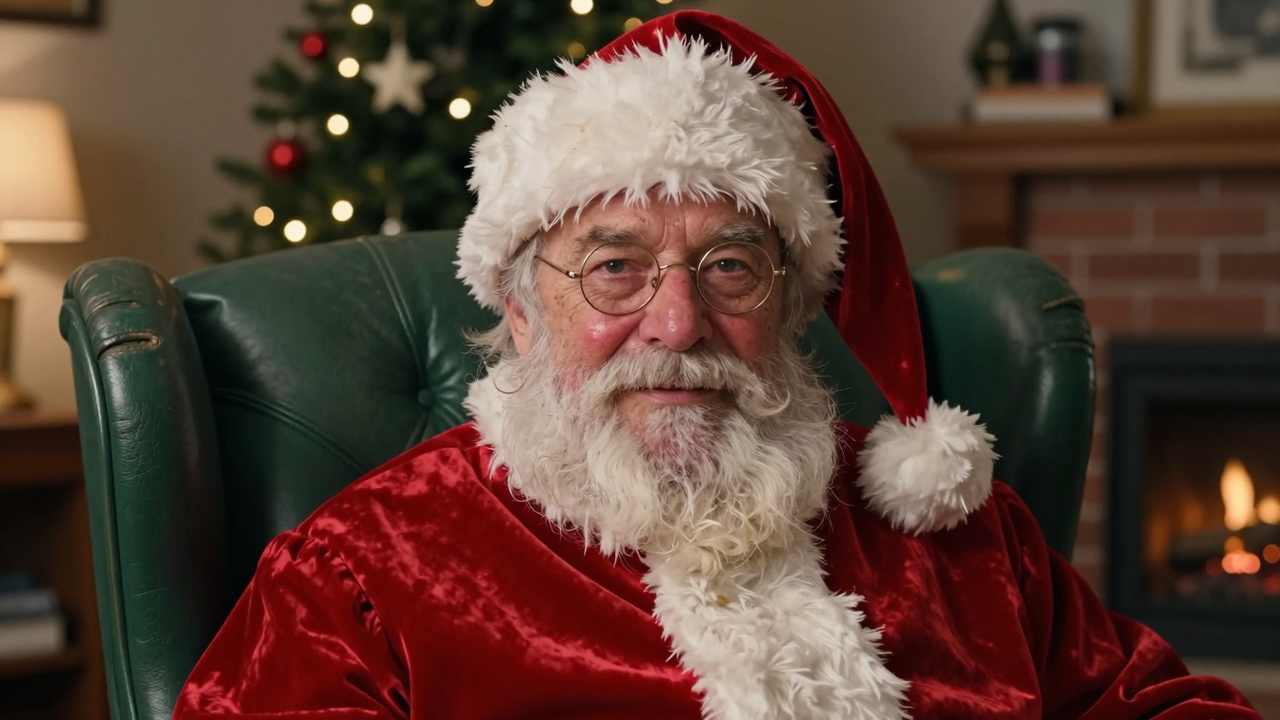
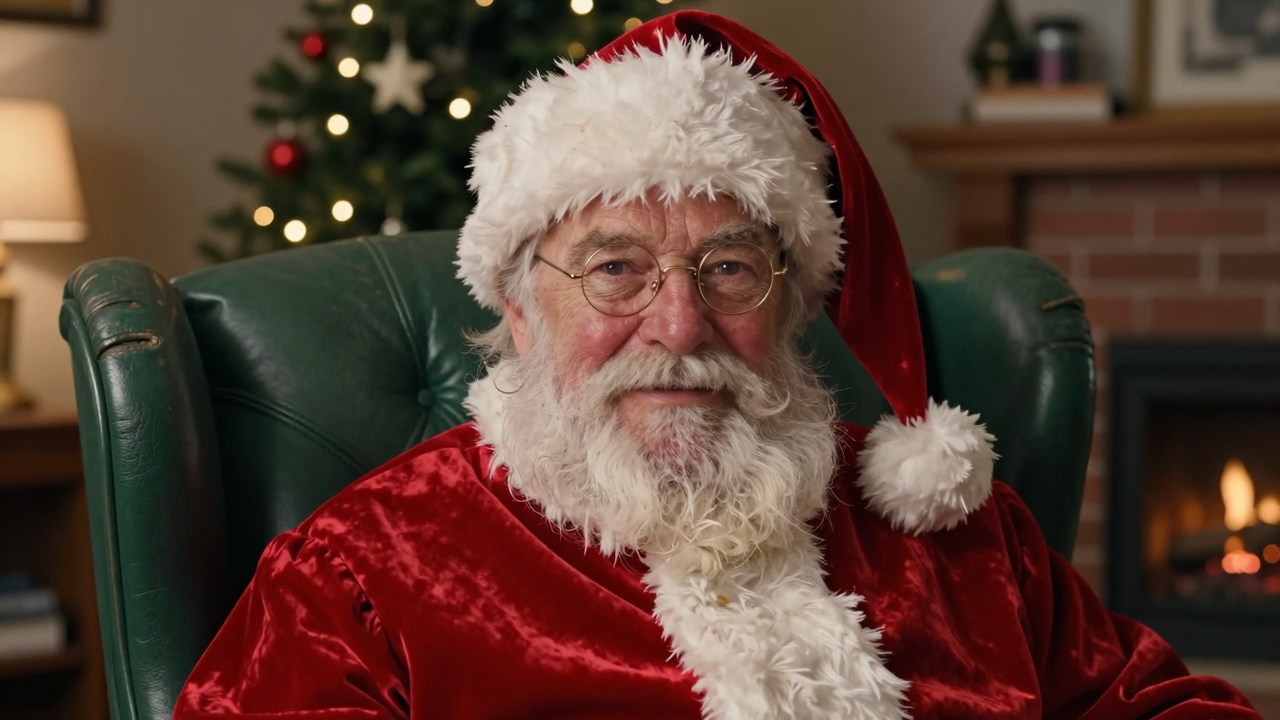
Peau du Père Noël mate, sans taches ni reflets
Le portrait avait des taches brunes et des reflets brillants sur les
joues et le nez, que la super-résolution et le halo accentuaient.
Nouveau portrait retouché (peau mate et unie), halo réduit à 0,06.

Chaque partie fixe retient dans voix.json le portrait avec lequel elle
a été animée : les salutations reprennent le même visage, même si le
portrait de config.json change ensuite.

Changed region(s): [[0.4062, 0.2444, 0.625, 0.55]]

diff --git a/pere_noel.py b/pere_noel.py
@@ -364,6 +364,7 @@ def video_corps(c):
     log("Rendu vidéo de la partie fixe (InfiniteTalk)…")
     assurer_comfyui()
     n = IT.rendre(c, ICI / c["portrait"], son, rendu, "corps", c["graine_video"], journal=log)
+    noter_portrait(c)
     if (rendu / "frames-hd").exists():
         shutil.rmtree(rendu / "frames-hd")  # images agrandies d'un ancien rendu
     superresolution(c, rendu, "corps")
@@ -435,6 +436,14 @@ def corps_depuis_complet(c, source, voix=None, ralenti=None, suffixe=None):
     composer_segments(c, dossier, [[d - debut, f - debut, p] for d, f, p in segs[1:]])
 
 
+def noter_portrait(c):
+    """Retient dans voix.json le portrait animé pour cette partie fixe : les salutations le reprennent."""
+    f = dossier_corps(c) / "voix.json"
+    infos = json.loads(f.read_text(encoding="utf-8")) if f.exists() else {}
+    infos["portrait"] = c["portrait"]
+    f.write_text(json.dumps(infos, ensure_ascii=False), encoding="utf-8")
+
+
 def infos_voix(c):
     """Réglages de la voix de la partie fixe (voix.json), s'il y en a."""
     f = dossier_corps(c) / "voix.json"
@@ -484,6 +493,8 @@ def generer(prenom, prononciation=None, c=None, salut_audio=None, elevenlabs_id=
     infos = infos_voix(c)
     if infos.get("ralenti"):
         c["ralenti_voix"] = infos["ralenti"]
+    if infos.get("portrait"):  # même visage que la partie fixe
+        c["portrait"] = infos["portrait"]
     suffixe = suffixe or infos.get("suffixe")
     if not salut_audio and not elevenlabs_id:
         elevenlabs_id = infos.get("elevenlabs_id")  # partie fixe faite avec ElevenLabs : même voix
